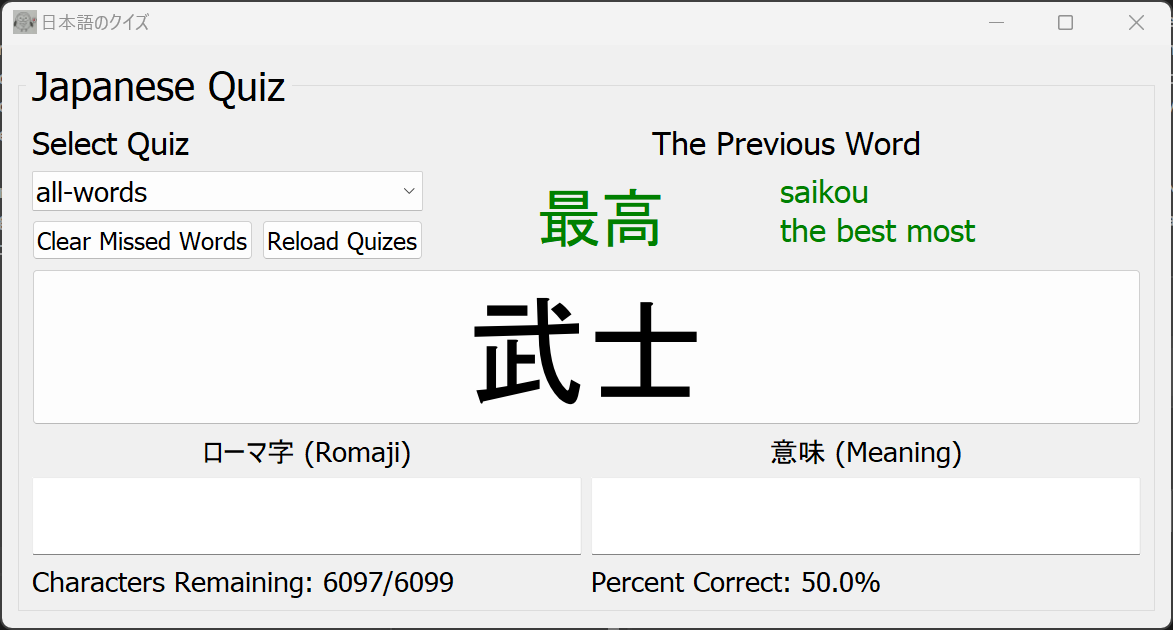
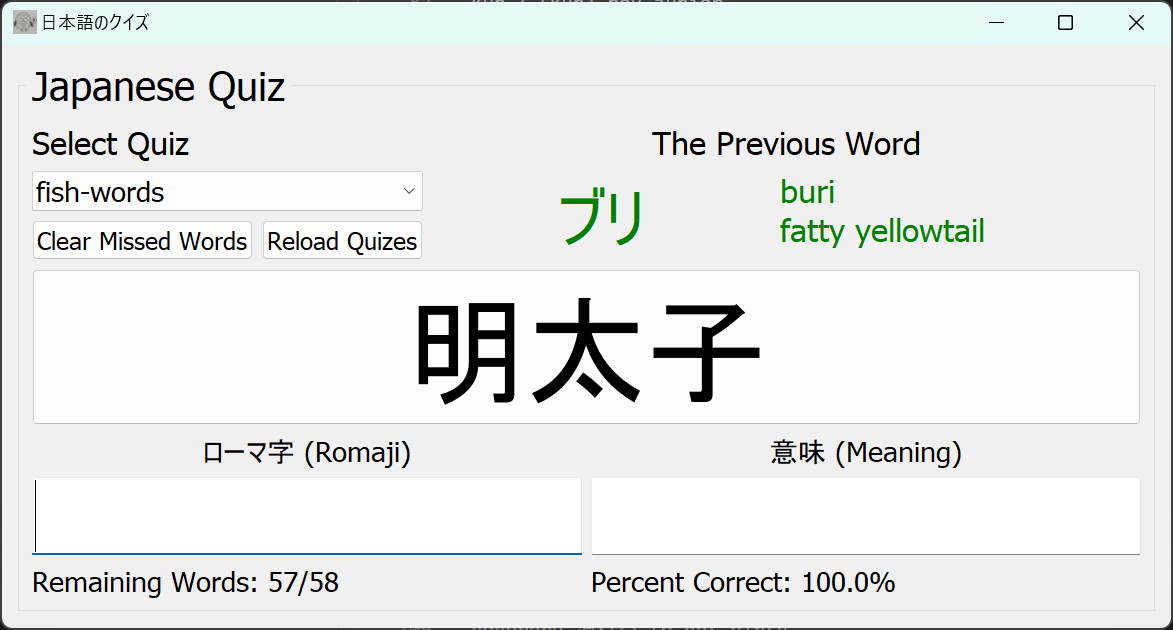
text and image update

diff --git a/japanese-quiz.py b/japanese-quiz.py
@@ -137,7 +137,7 @@ class Quiz(QtWidgets.QWidget):
         # remaining characters
         self.num_of_characters = QtWidgets.QLabel(self)
         self.num_of_characters.setFont(QFont('Times', 14))
-        self.num_of_characters.setText('Characters Remaining: ')
+        self.num_of_characters.setText('Remaining Words: ')
 
         # previous header
         self.prev_head = QtWidgets.QLabel(self)
@@ -227,7 +227,7 @@ class Quiz(QtWidgets.QWidget):
             self.character_btn.setText('select a quiz')
             self.character_entry.setText('')
             self.meaning_entry.setText('')
-            self.num_of_characters.setText('Characters Remaining: ')
+            self.num_of_characters.setText('Remaining Words: ')
         else:
             pass
         
@@ -305,7 +305,7 @@ class Quiz(QtWidgets.QWidget):
             if text == i:
                 index = self.missed_name.index(i)
                 if self.empty_file_1 == True:
-                    self.num_of_characters.setText('Characters Remaining: ')
+                    self.num_of_characters.setText('Remaining Words: ')
                     self.percent_correct.setText('Percent Correct: ')
                     self.character_btn.setText('empty quiz')
                     self.question_status.setText('')
@@ -316,7 +316,7 @@ class Quiz(QtWidgets.QWidget):
                     self.meaning = _np.array(self.missed[index][2])
                     self.missed_file = self.missed_words
                     if self.romaji.size == 1:
-                        self.num_of_characters.setText('Characters Remaining: ')
+                        self.num_of_characters.setText('Remaining Words: ')
                         self.percent_correct.setText('Percent Correct: ')
                         self.character_btn.setText('one word quiz')
                         self.question_status.setText('')
@@ -331,7 +331,7 @@ class Quiz(QtWidgets.QWidget):
             self.romaji, self.japanese, self.meaning = shuffle(self.romaji, self.japanese, self.meaning)
 
         self.total_number = self.japanese.size
-        self.num_of_characters.setText('Characters Remaining: ' + str(self.japanese.size) + '/' + str(self.total_number))
+        self.num_of_characters.setText('Remaining Words: ' + str(self.japanese.size) + '/' + str(self.total_number))
         self.character_btn.setText(self.japanese[1])
 
     def button_init(self):
@@ -394,7 +394,7 @@ class Quiz(QtWidgets.QWidget):
                 self.character_btn.setText(self.japanese[1])
             self.character_entry.setText('')
             self.meaning_entry.setText('')
-            self.num_of_characters.setText('Characters Remaining: ' + str(self.japanese.size) + '/' + str(self.total_number))
+            self.num_of_characters.setText('Remaining Words: ' + str(self.japanese.size) + '/' + str(self.total_number))
             self.percent_correct.setText('Percent Correct: ' + str(round(self.num_correct/self.num_total * 100, 2)) + '%')
 
     def three_column_store(self):
@@ -461,7 +461,7 @@ class Quiz(QtWidgets.QWidget):
                 self.character_btn.setText(self.japanese[1])
             self.character_entry.setText('')
             self.meaning_entry.setText('')
-            self.num_of_characters.setText('Characters Remaining: ' + str(self.japanese.size) + '/' + str(self.total_number))
+            self.num_of_characters.setText('Remaining Words: ' + str(self.japanese.size) + '/' + str(self.total_number))
             self.percent_correct.setText('Percent Correct: ' + str(round(self.num_correct/self.num_total * 100, 2)) + '%')
             # write the updated dataframe to the counter.csv
             if self.all:

diff --git a/README.md b/README.md
@@ -31,6 +31,3 @@ Sample Quizzes
 
 Correct Words
 ![](/readme-images/correct.png)
-
-Incorrect Words
-![](/readme-images/incorrect.png)
